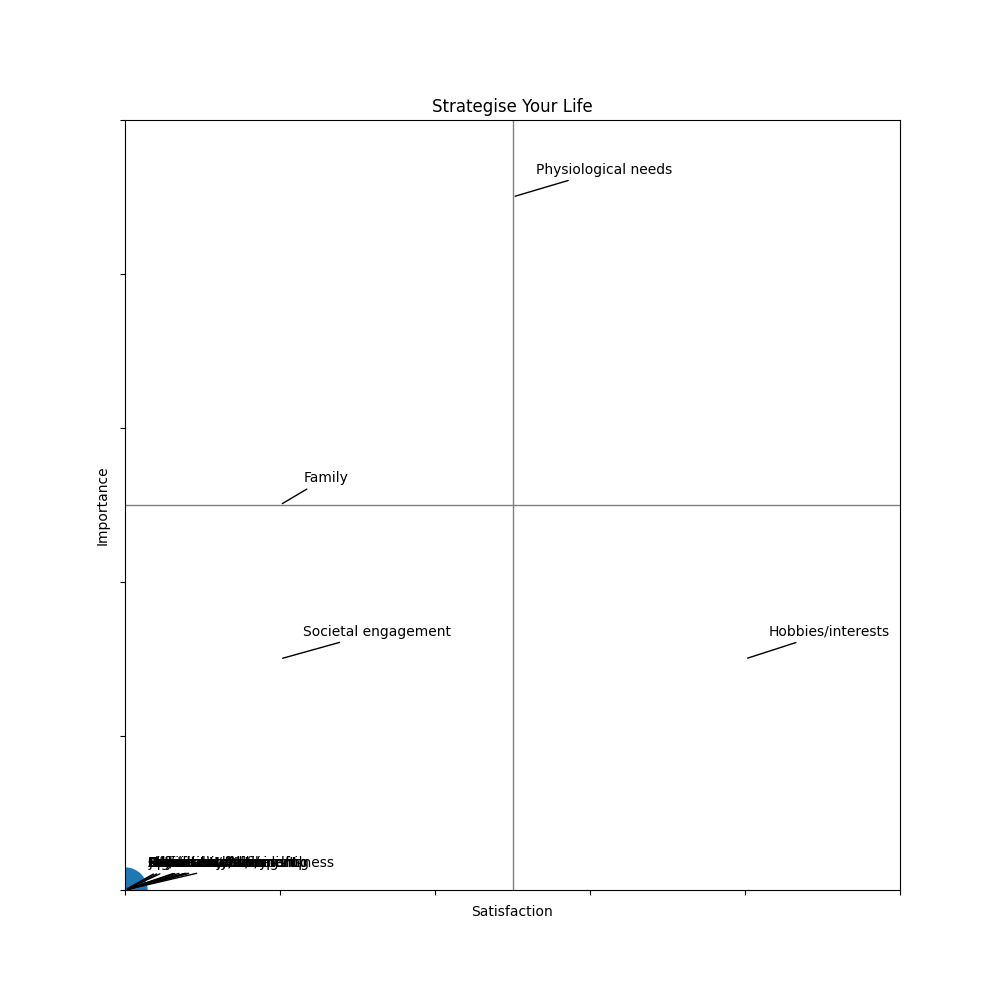
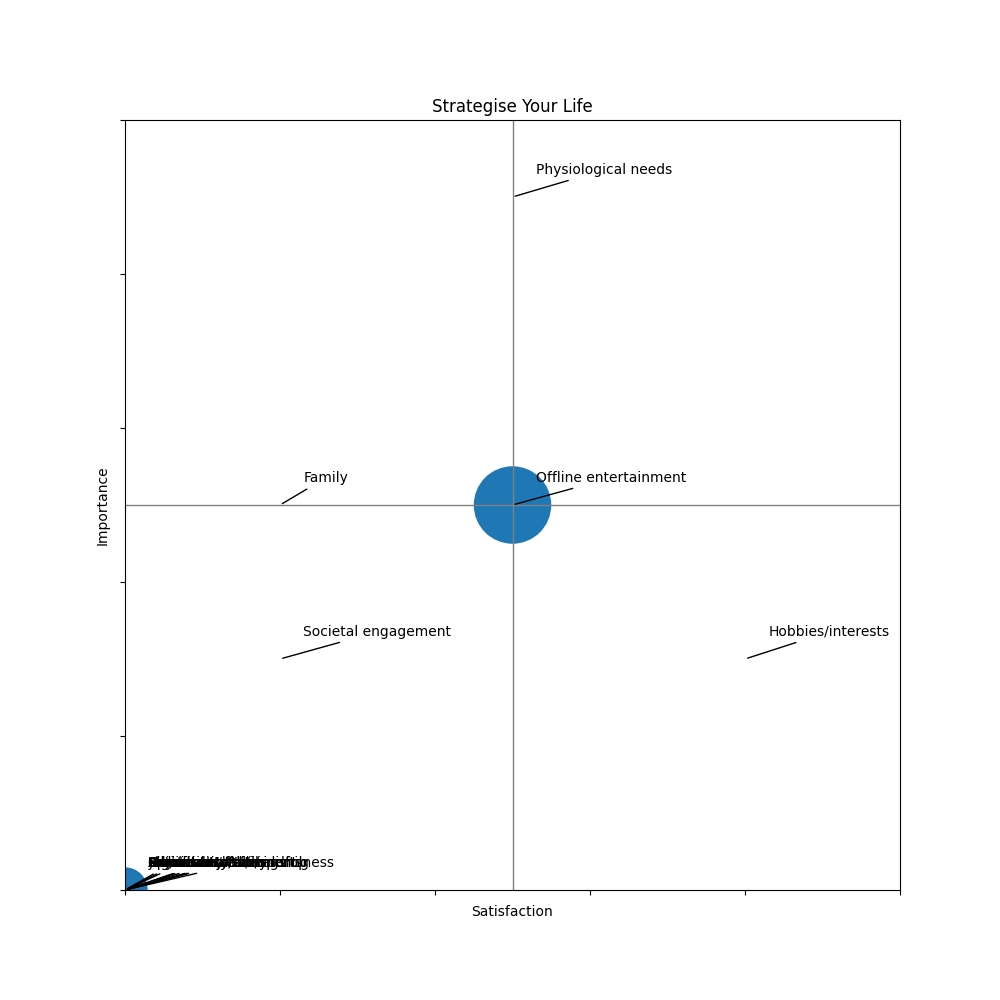
Adding comments and cleaning up

Changed region(s): [[0.465, 0.465, 0.682, 0.558]]

diff --git a/website/views.py b/website/views.py
@@ -20,44 +20,42 @@ def home():
     #runs the function to create the starting data
     CreateData()
 
-  cur = conn.cursor()
-  cur.execute("SELECT * FROM strategise_your_life")
-  data = cur.fetchall()
-
   #creates the form
   form = FullForm()
 
   #list of the strategic life units to add as the first col of the table
   strategicLifeUnits = ['Significant Other','Family','Friends','Physical Health/sports','Mental Health/mindfulness','Spirituality/faith','Community/citizenship','Societal engagement','Job/career','Education/learning','Finances','Hobbies/interests','Online entertainment','Offline entertainment','Physiological needs','Activities of daily living']
 
-
   if request.method == 'POST':
-      #can get the values back from the form
+      #loads the immutable dic
       data = request.form
 
+      #turns the dic into a list
       dataList = list(data)
 
+      #groups the dic in rows
       grouped_data = [dataList[i:i+3] for i in range(0, len(dataList), 3)]
 
       # Iterate over groups
       for group in grouped_data[:-1]:
-          
-          strategicLifeUnit = int(group[0].split('-')[1]) + 1
-          satisfaction = data.get(group[0])
-          importance = data.get(group[1])
-          timeInvested = data.get(group[2])
+        #extracts the data from the dic
+        strategicLifeUnit = int(group[0].split('-')[1]) + 1
+        satisfaction = data.get(group[0])
+        importance = data.get(group[1])
+        timeInvested = data.get(group[2])
 
-          if satisfaction == "":
-             satisfaction = 0
-          elif importance == "":
-             importance = 0
-          elif timeInvested == "":
-             timeInvested = 0
+        #checks if the user has left cells blank
+        if satisfaction == "":
+            satisfaction = 0
+        elif importance == "":
+            importance = 0
+        elif timeInvested == "":
+            timeInvested = 0
 
-          curs = conn.cursor()
-          curs.execute(f"UPDATE strategise_your_life SET satisfaction = {satisfaction}, importance = {importance}, timeInvested = {timeInvested} WHERE id = {strategicLifeUnit}")
-          conn.commit()
-          
+        #updates the records in the database
+        curs = conn.cursor()
+        curs.execute(f"UPDATE strategise_your_life SET satisfaction = {satisfaction}, importance = {importance}, timeInvested = {timeInvested} WHERE id = {strategicLifeUnit}")
+        conn.commit()
 
       #run the python visual code here
       CreateVisual()

diff --git a/website/form.py b/website/form.py
@@ -1,11 +1,13 @@
 from flask_wtf import FlaskForm
 from wtforms import FieldList, SubmitField, FormField, DecimalField
 
+#form to be duplicated for each data point
 class SimpleForm(FlaskForm):
   satisfaction = DecimalField("Satisfaction")
   importance = DecimalField("Importance")
   timeInvested = DecimalField("Time Invested")
 
+#full form drawing on the other form
 class FullForm(FlaskForm):
   submit = SubmitField("Submit")
   simpleForm = FieldList(FormField(SimpleForm), min_entries=16)

diff --git a/website/starting_data.py b/website/starting_data.py
@@ -25,8 +25,8 @@ def CreateData():
   for row in area:
       for i in range(0, len(row), 2):
           pair = row[i:i+2]
-          print(pair[1])
 
+          #pre loads the database
           sampleData = StrategiseYourLife(strategicLifeUnits=pair[0], strategicLifeAreas=pair[1], satisfaction=0, importance=0, timeInvested=0)
           db.session.add(sampleData)
           db.session.commit()
